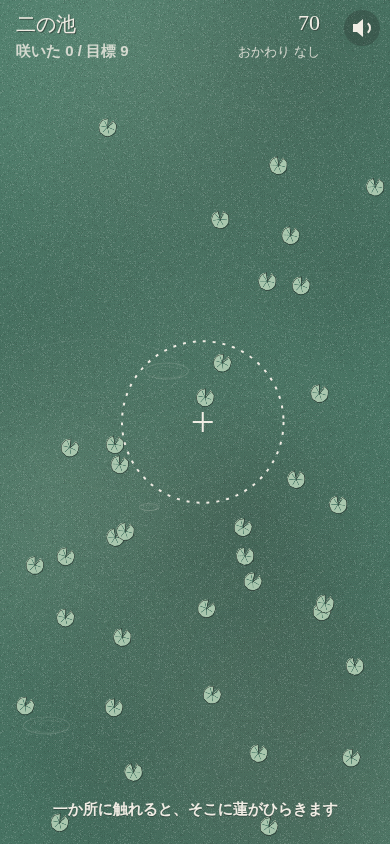
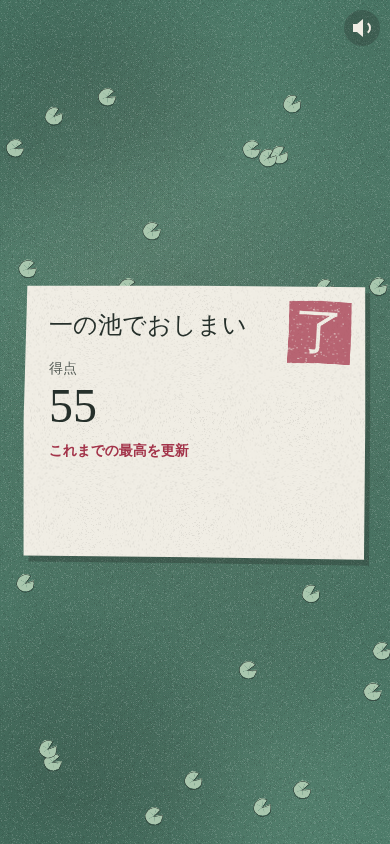
WIP: game 001 redesign in progress
Claude-Session: https://claude.ai/code/session_01C9PKe73xnsQCPuibChcCfd

diff --git a/arcade/games/001-bloom-chain/index.html b/arcade/games/001-bloom-chain/index.html
@@ -40,6 +40,13 @@ function rgba(hex, a) {
   return `rgba(${n >> 16},${(n >> 8) & 255},${n & 255},${a})`;
 }
 
+function mix(h1, h2, k) {
+  // 不透明のまま2色を混ぜる（下の緑が透けて濁らないように）
+  const a = parseInt(h1.slice(1), 16), b = parseInt(h2.slice(1), 16);
+  const ch = (sh) => Math.round(((a >> sh) & 255) * (1 - k) + ((b >> sh) & 255) * k);
+  return `rgb(${ch(16)},${ch(8)},${ch(0)})`;
+}
+
 // ---------- prerendered textures (made once, reused) ----------
 let bgCanvas = null;
 const grain = (() => {
@@ -78,10 +85,10 @@ function buildBackground() {
 
 // 蓮の花（上から見た形）を4種類、1回だけ描いておく
 const TINTS = [
-  { tip: C.enji, pod: C.kindei, a: 0.85 },   // 紅蓮
-  { tip: "#c27884", pod: C.kindei, a: 0.7 }, // 薄紅
-  { tip: C.kindei, pod: "#b08d48", a: 0.35 },// 白蓮
-  { tip: "#8e2b40", pod: C.kindei, a: 1 }    // 深い臙脂
+  { tip: C.enji, pod: C.kindei, a: 0.62 },   // 紅蓮
+  { tip: "#c27884", pod: C.kindei, a: 0.55 },// 薄紅
+  { tip: C.kindei, pod: "#b08d48", a: 0.3 }, // 白蓮
+  { tip: "#8e2b40", pod: C.kindei, a: 0.75 } // 深い臙脂
 ];
 const SPR = 256, SR = 118;
 function petalPath(g, len, wid, jit) {
@@ -103,14 +110,15 @@ function makeLotus(t) {
       g.rotate(off + (i / n) * Math.PI * 2 + (Math.random() - 0.5) * 0.08);
       const l = len * (0.93 + Math.random() * 0.1);
       const grad = g.createLinearGradient(0, 0, 0, -l);
-      grad.addColorStop(0, C.gofun); grad.addColorStop(0.55, C.gofun);
-      grad.addColorStop(1, rgba(t.tip, t.a));
+      grad.addColorStop(0, C.gofun); grad.addColorStop(0.6, C.gofun);
+      grad.addColorStop(0.82, mix(C.gofun, t.tip, t.a * 0.45));
+      grad.addColorStop(1, mix(C.gofun, t.tip, t.a));
       petalPath(g, l, wid, jit);
       g.fillStyle = grad; g.fill();
       // 版ずれ: 墨の線を少しずらして刷る
       g.translate(1.8, 1.2);
       petalPath(g, l, wid, jit);
-      g.strokeStyle = rgba(C.sumi, 0.55); g.lineWidth = 2.2; g.stroke();
+      g.strokeStyle = rgba(C.sumi, 0.42); g.lineWidth = 1.8; g.stroke();
       g.beginPath(); g.moveTo(0, -l * 0.12); g.lineTo(jit[2] * 2, -l * 0.7);
       g.strokeStyle = rgba(C.sumi, 0.18); g.lineWidth = 1.2; g.stroke();
       g.restore();
@@ -145,10 +153,10 @@ const PAD = (() => {
     g.closePath();
   };
   leaf(0, 0); g.fillStyle = C.byakuroku; g.fill();
-  g.strokeStyle = rgba(C.rokusho, 0.9); g.lineWidth = 2;
-  for (let i = 0; i < 6; i++) {
-    const a = -Math.PI / 2 + 0.6 + i * 0.98;
-    g.beginPath(); g.moveTo(0, 0); g.lineTo(Math.cos(a) * 20, Math.sin(a) * 20); g.stroke();
+  g.strokeStyle = rgba(C.rokusho, 0.45); g.lineWidth = 1.3;
+  for (let i = 0; i < 5; i++) {
+    const a = -Math.PI / 2 + 0.75 + i * 1.18;
+    g.beginPath(); g.moveTo(0, 0); g.lineTo(Math.cos(a) * 17, Math.sin(a) * 17); g.stroke();
   }
   leaf(1.6, 1.4); g.strokeStyle = rgba(C.sumi, 0.6); g.lineWidth = 2.4; g.stroke();
   return c;
@@ -596,7 +604,7 @@ function draw() {
       ctx.beginPath(); ctx.moveTo(16, 26 + 37 * S); ctx.lineTo(16 + 128 * S, 26 + 36 * S); ctx.stroke();
     }
     const sx = W - 70;
-    text(`${score + (state === "result" ? 0 : roundScore)}`, sx, 24, 22 * S, C.gofun, { brush: true, align: "right", shadow: rgba(C.sumi, 0.6) });
+    text(`${score + (state === "result" ? 0 : roundScore)} 点`, sx, 24, 22 * S, C.gofun, { brush: true, align: "right", shadow: rgba(C.sumi, 0.6) });
     text(retryLeft > 0 ? "おかわり 一回" : "おかわり なし", sx, 26 + 26 * S, 13 * S, rgba(C.gofun, 0.82), { weight: 500, align: "right" });
   }
   if (state === "aim") {
@@ -666,7 +674,6 @@ function drawTitle(land) {
   const big = Math.min(W, H) * (land ? 0.3 : 0.26);
   const fx = land ? W * 0.3 : W * 0.36, fy = land ? H * 0.42 : H * 0.27;
   drawLotus(fx, fy, big, 0.2, 0, 1);
-  drawLotus(fx + big * 1.25, fy + big * 0.95, big * 0.42, 1.1, 1, 1);
   const ts = Math.min(68 * S, H * (land ? 0.15 : 0.075));
   const tx = land ? W * 0.62 : W * 0.8, ty = land ? H * 0.1 : H * 0.07;
   const th = vtext("蓮ひらく", tx, ty, ts, C.gofun, rgba(C.sumi, 0.75));
@@ -677,11 +684,11 @@ function drawTitle(land) {
   const fs = 14.5 * S, lh = fs * 1.7;
   const lines = ["池に一度だけ触れる。", "ひらいた蓮が浮き葉を巻きこみ、", "つぎつぎに咲いていく。", "目標の数を咲かせて八つの池を渡る。"];
   const tx2 = land ? tx + ts * 0.9 : lx;
-  lines.forEach((s, i) => text(s, tx2, base + i * lh, fs, C.gofun, { weight: 500, align: "left" }));
+  lines.forEach((s, i) => text(s, tx2, base + i * lh, fs, C.gofun, { weight: 500, align: "left", shadow: rgba(C.sumi, 0.55) }));
   const y2 = base + lines.length * lh + fs * 0.6;
   text("PC は矢印キーで狙ってスペース", tx2, y2, 13 * S, rgba(C.gofun, 0.75), { align: "left" });
   if (best > 0) text(`これまでの最高 ${best}`, tx2, y2 + lh * 1.2, 15 * S, C.gofun, { weight: 700, align: "left" });
-  text("触れてはじめる", tx2, land ? H - 40 : H * 0.88, 19 * S, C.gofun, { brush: true, align: "left", shadow: rgba(C.sumi, 0.6) });
+  text("触れてはじめる", tx2, land ? H - 40 : Math.min(H * 0.8, y2 + lh * 3.2), 19 * S, C.gofun, { brush: true, align: "left", shadow: rgba(C.sumi, 0.6) });
 }
 
 let last = performance.now();
